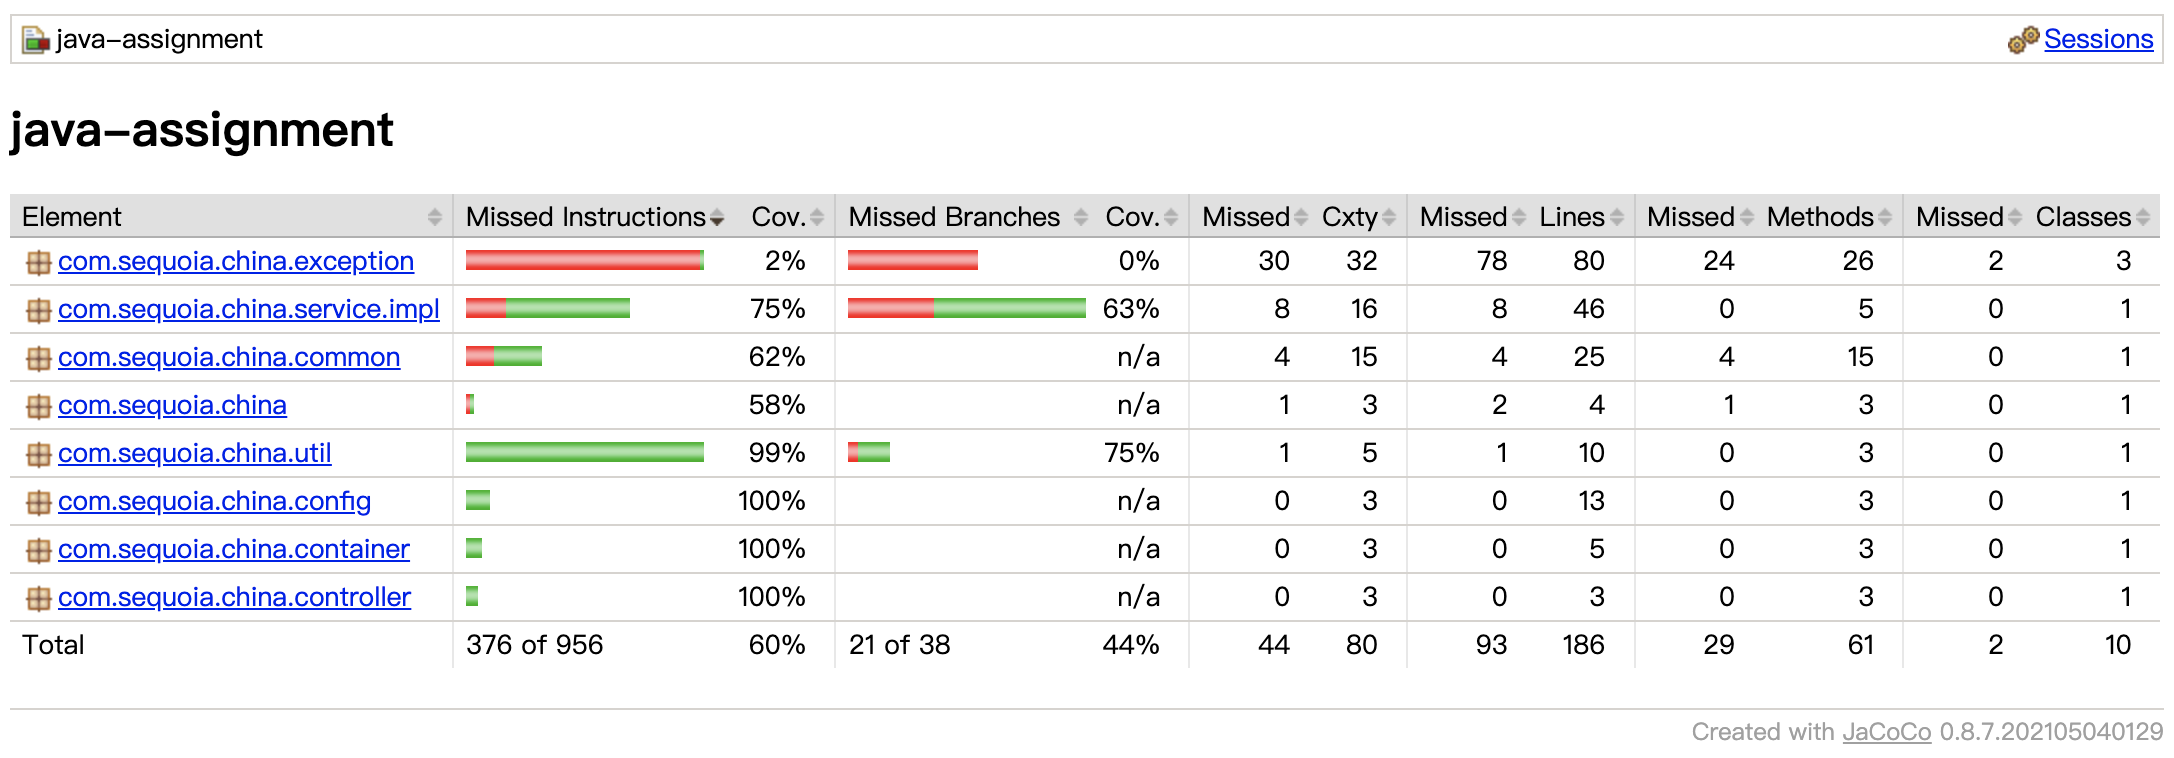
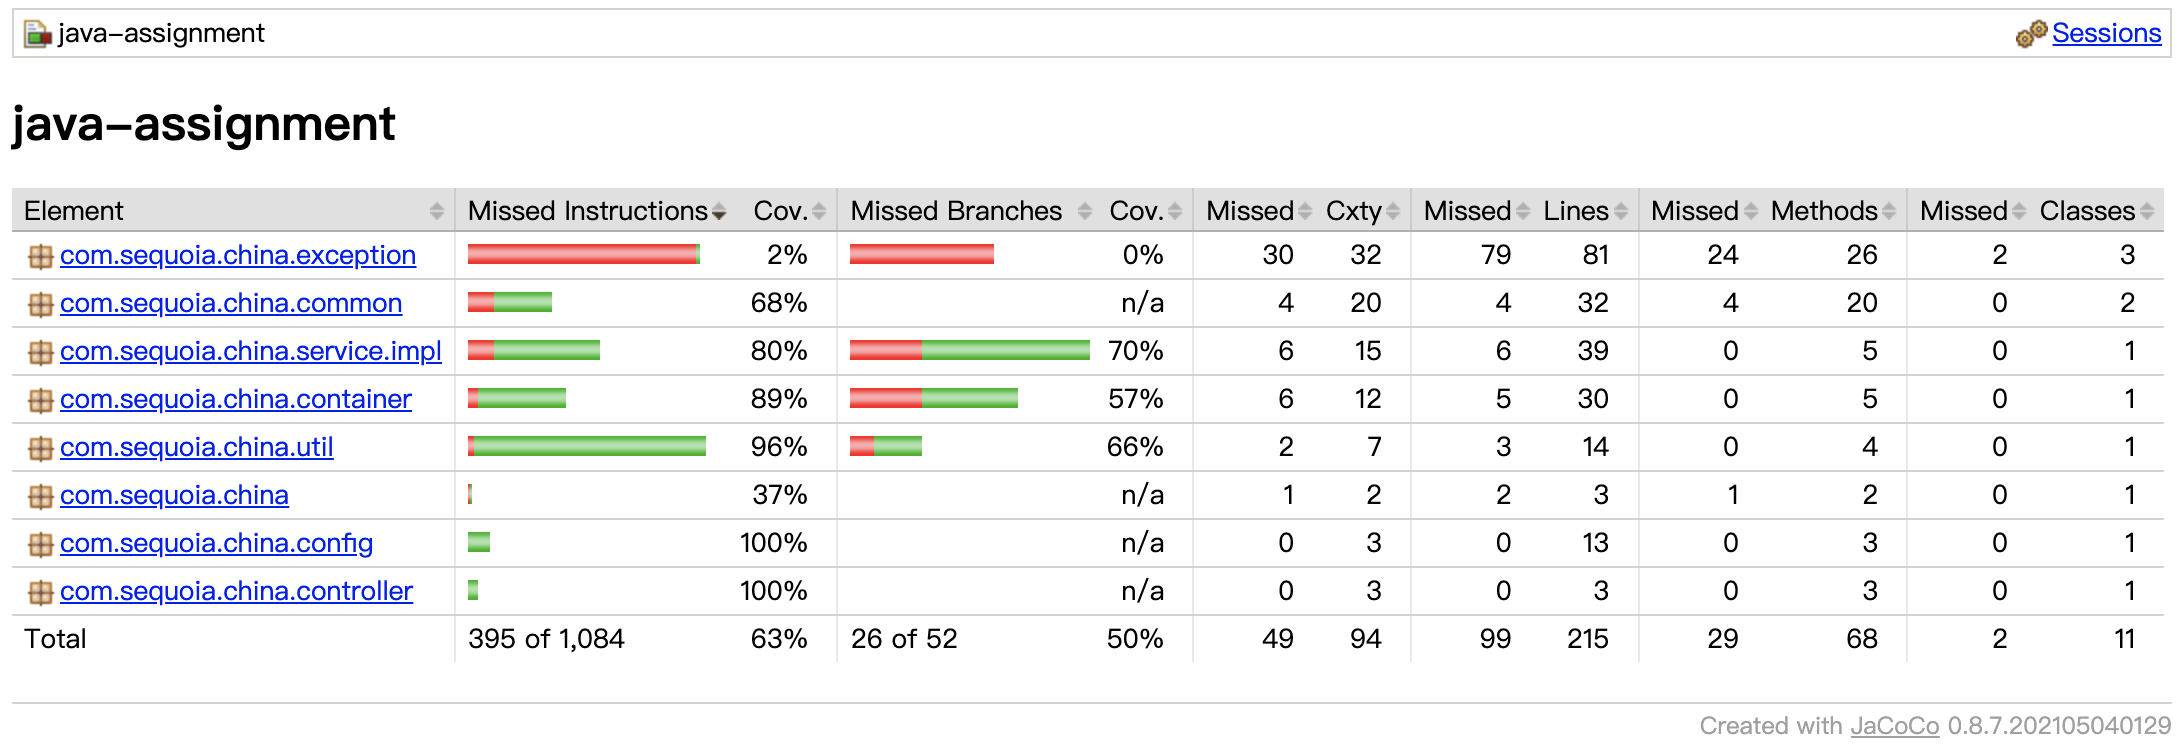
增加LRU，解决内存溢出问题

diff --git a/java/java-assignment/src/main/java/com/sequoia/china/container/DomainNameContainer.java b/java/java-assignment/src/main/java/com/sequoia/china/container/DomainNameContainer.java
@@ -1,5 +1,13 @@
 package com.sequoia.china.container;
 
+import cn.hutool.core.util.StrUtil;
+import com.sequoia.china.common.SequoiaConfig;
+import com.sequoia.china.exception.ErrorEnum;
+import com.sequoia.china.exception.SequoiaRunTimeException;
+import org.springframework.beans.factory.annotation.Autowired;
+import org.springframework.stereotype.Component;
+
+import java.util.LinkedList;
 import java.util.concurrent.ConcurrentHashMap;
 
 /**
@@ -7,7 +15,11 @@ import java.util.concurrent.ConcurrentHashMap;
  * @Author helichao
  * @Date 2021/6/24 7:38 下午
  */
+@Component
 public class DomainNameContainer {
+
+    @Autowired
+    SequoiaConfig sequoiaConfig;
 
     /**
      * 存储key=长域名，value=短域名
@@ -19,12 +31,79 @@ public class DomainNameContainer {
      */
     public ConcurrentHashMap<String,String> shortToLongMap=new ConcurrentHashMap();
 
-    private DomainNameContainer(){}
+    /**
+     * 用于lru算法，String格式为：longDomainName+"|"+shortDomainName
+     */
+    public LinkedList<String> linkedList=new LinkedList<>();
 
-    private final static DomainNameContainer INSTANCE=new DomainNameContainer();
+    /**
+     * 保存长短域名映射关系
+     *
+     * @param longDomainName 长域名
+     * @param shortDomainName 短域名
+     */
+    public synchronized void put(String longDomainName,String shortDomainName){
+        if (StrUtil.isEmpty(longDomainName)||StrUtil.isEmpty(shortDomainName)){
+            return;
+        }
+        //1.判断是否超过容器上限，如果大于或等于maxCount，则移除linkedlist first元素
+        if (linkedList.size()>= sequoiaConfig.getContainerMaxCount()) {
+            linkedList.removeFirst();
+        }
+        //2.将值放入map，建立映射关系
+        longToShortMap.put(longDomainName,shortDomainName);
+        shortToLongMap.put(shortDomainName,longDomainName);
+        //3.保存至linkedlist last位置，
+        linkedList.addLast(longDomainName+"|"+shortDomainName);
+    }
 
-    public static DomainNameContainer getInstance(){
-        return INSTANCE;
+    /**
+     * 根据短域名获取长域名
+     * @param shortDomainName 短域名
+     * @return 长域名
+     */
+    public synchronized String getLongDomainName(String shortDomainName){
+        if (StrUtil.isEmpty(shortDomainName)){
+            return null;
+        }
+        //1.根据short获取long
+        String longDomainName = shortToLongMap.get(shortDomainName);
+        if (StrUtil.isEmpty(longDomainName)) {
+            throw new SequoiaRunTimeException(ErrorEnum.SCE_0004);
+        }
+        //2.更新在linkedlist中的位置
+        refreshLocation(longDomainName,shortDomainName);
+        return longDomainName;
+    }
+
+    /**
+     * 根据长域名获取短域名
+     * @param longDomainName 长域名
+     * @return 短域名
+     */
+    public synchronized String getShortDomainName(String longDomainName){
+        if (StrUtil.isEmpty(longDomainName)){
+            return null;
+        }
+        //1.根据long获取short
+        String shortDomainName = longToShortMap.get(longDomainName);
+        if (StrUtil.isEmpty(shortDomainName)) {
+            return null;
+        }
+        //2.更新在linkedlist中的位置
+        refreshLocation(longDomainName,shortDomainName);
+        return shortDomainName;
+    }
+
+    /**
+     * 刷新key的位置，将最近访问的key移动至在last位置
+     * @param longDomainName 长域名
+     * @param shortDomainName 短域名
+     */
+    private void refreshLocation(String longDomainName,String shortDomainName){
+        String linkedlistNode = longDomainName + "|" + shortDomainName;
+        linkedList.remove(linkedlistNode);
+        linkedList.addLast(linkedlistNode);
     }
 
 

diff --git a/java/java-assignment/src/test/java/com/sequoia/china/JavaAssignmentApplicationTests.java b/java/java-assignment/src/test/java/com/sequoia/china/JavaAssignmentApplicationTests.java
@@ -3,6 +3,7 @@ package com.sequoia.china;
 import cn.hutool.core.util.StrUtil;
 import cn.hutool.json.JSONUtil;
 import com.sequoia.china.common.ResponseData;
+import com.sequoia.china.container.DomainNameContainer;
 import com.sequoia.china.controller.DomainNameConvertController;
 import com.sequoia.china.util.IdUtil;
 import org.junit.jupiter.api.Test;
@@ -18,6 +19,7 @@ import org.springframework.test.web.servlet.request.MockMvcRequestBuilders;
 import org.springframework.web.client.RestTemplate;
 
 import java.nio.charset.Charset;
+import java.util.LinkedList;
 
 @RunWith(SpringRunner.class)
 @SpringBootTest
@@ -28,6 +30,13 @@ class JavaAssignmentApplicationTests {
     @Autowired
     private MockMvc mockMvc;
 
+    @Autowired
+    DomainNameContainer container;
+
+    /**
+     * 测试两个接口是否正常
+     * @throws Exception
+     */
     @Test
     void testDomainNameConvert() throws Exception {
         //长域名转短域名
@@ -64,6 +73,45 @@ class JavaAssignmentApplicationTests {
         String data1 = responseData2.getData();
         System.out.println("长域名："+data1);
         System.out.println("与原长域名比较结果："+(longDomainName.equals(data1)));
+    }
+
+
+    /**
+     * 测试LRU是否生效
+     * @throws Exception
+     */
+    @Test
+    void testLRU() throws Exception {
+        //先初始化10条数据
+        for (int i = 0; i < 10; i++) {
+            String longDomainName="https://baike.baidu.com/item/红杉资本/9915610?fr=aladdin"+i;
+            MvcResult mvcResult=mockMvc.perform(MockMvcRequestBuilders.post("/domainNameconvert/longToShort")
+                    .param("longDomainName",longDomainName))
+                    .andReturn();
+        }
+        //再访问第二条数据，看第二条数据的位置
+        String longDomainName="https://baike.baidu.com/item/红杉资本/9915610?fr=aladdin"+2;
+        MvcResult mvcResult=mockMvc.perform(MockMvcRequestBuilders.post("/domainNameconvert/longToShort")
+                .param("longDomainName",longDomainName))
+                .andReturn();
+        String shortDomainName = mvcResult.getResponse().getContentAsString();
+        ResponseData<String> responseData = JSONUtil.toBean(shortDomainName, ResponseData.class);
+        String data = responseData.getData();
+        System.out.println("短域名："+data);
+
+        //上面总共10条数据，将配置文件中container-max-count改为10，测试是否会删除头部节点
+        String longDomainName2="https://baike.baidu.com/item/红杉资本/9915610?fr=aladdin"+111;
+        MvcResult mvcResult2=mockMvc.perform(MockMvcRequestBuilders.post("/domainNameconvert/longToShort")
+                .param("longDomainName",longDomainName2))
+                .andReturn();
+
+        //在访问第二条数据，使用shortToLong访问，第二条数据应该在最后
+        MvcResult mvcResult3=mockMvc.perform(MockMvcRequestBuilders.post("/domainNameconvert/shortToLong")
+                .param("shortDomainName",data))
+                .andReturn();
+        for (String str:container.linkedList) {
+            System.out.println(str);
+        }
     }
 
 }

diff --git a/java/java-assignment/src/main/java/com/sequoia/china/service/impl/DomainNameConvertServiceImpl.java b/java/java-assignment/src/main/java/com/sequoia/china/service/impl/DomainNameConvertServiceImpl.java
@@ -8,6 +8,7 @@ import com.sequoia.china.service.IDomainNameConvertService;
 import com.sequoia.china.util.IdUtil;
 import org.slf4j.Logger;
 import org.slf4j.LoggerFactory;
+import org.springframework.beans.factory.annotation.Autowired;
 import org.springframework.stereotype.Service;
 
 /**
@@ -19,6 +20,12 @@ import org.springframework.stereotype.Service;
 public class DomainNameConvertServiceImpl implements IDomainNameConvertService {
 
     private final static Logger log= LoggerFactory.getLogger(DomainNameConvertServiceImpl.class);
+
+    @Autowired
+    DomainNameContainer container;
+
+    @Autowired
+    IdUtil idUtil;
 
     /**
      * 长域名转短域名
@@ -44,21 +51,14 @@ public class DomainNameConvertServiceImpl implements IDomainNameConvertService {
         if (StrUtil.isEmpty(suffixUrl)){
             throw new SequoiaRunTimeException(ErrorEnum.SCE_0003,longDomainName);
         }
-        //3.获取容器
-        DomainNameContainer instance = DomainNameContainer.getInstance();
-        //4.判断域名容器中是否有该长域名，有则直接返回，无则进行后续步骤；
-        String shortDomainName = instance.longToShortMap.get(suffixUrl);
+        //3.从容器中获取短域名
+        String shortDomainName = container.getShortDomainName(suffixUrl);
         if (StrUtil.isNotEmpty(shortDomainName)){
             return prefixUrl+shortDomainName;
         }
         //5.生成id；
-        String id= IdUtil.getId();
-        synchronized (instance){
-            //6.存储：key=suffixUrl，value=id
-            instance.longToShortMap.put(suffixUrl,id);
-            //7.存储：key=id，value=suffixUrl
-            instance.shortToLongMap.put(id,suffixUrl);
-        }
+        String id= idUtil.getId();
+        container.put(suffixUrl,id);
         return prefixUrl+id;
     }
 
@@ -83,13 +83,8 @@ public class DomainNameConvertServiceImpl implements IDomainNameConvertService {
         if (StrUtil.isEmpty(suffixUrl)){
             throw new SequoiaRunTimeException(ErrorEnum.SCE_0003,shortDomainName);
         }
-        //3.获取容器
-        DomainNameContainer instance = DomainNameContainer.getInstance();
-        //4.判断域名容器中是否有该长域名，有则直接返回，无则进行后续步骤；
-        String longDomainName = instance.shortToLongMap.get(suffixUrl);
-        if (StrUtil.isEmpty(longDomainName)){
-            throw new SequoiaRunTimeException(ErrorEnum.SCE_0004,shortDomainName);
-        }
+        //3.从容器中获取长域名
+        String longDomainName = container.getLongDomainName(suffixUrl);
         return prefixUrl+longDomainName;
     }
 

diff --git a/java/java-assignment/src/main/java/com/sequoia/china/util/IdUtil.java b/java/java-assignment/src/main/java/com/sequoia/china/util/IdUtil.java
@@ -21,20 +21,20 @@ public class IdUtil {
             'a','b','c','d','e','f','g','h','i','j','k','l','m','n','o','p','q','r','s','t','u','v','w','x','y','z',
             'A','B','C','D','E','F','G','H','I','J','K','L','M','N','O','P','Q','R','S','T','U','V','W','X','Y','Z'};
 
-    private static SecureRandom random = new SecureRandom();
+    private SecureRandom random = new SecureRandom();
 
-    private static int idRecursiveMaxCount;
+    @Autowired
+    SequoiaConfig sequoiaConfig;
 
-    public IdUtil(SequoiaConfig sequoiaConfig) {
-        idRecursiveMaxCount=sequoiaConfig.getIdRecursiveMaxCount();
-    }
+    @Autowired
+    DomainNameContainer container;
 
     /**
      * 生成id
      *
      * @return
      */
-    public static String getId(){
+    public String getId(){
         //第一次获取id，递归次数为0
         return getId(0);
     }
@@ -45,8 +45,8 @@ public class IdUtil {
      * @param recursiveCount 当前递归次数
      * @return
      */
-    private static String getId(int recursiveCount){
-        if (recursiveCount >= idRecursiveMaxCount){
+    private String getId(int recursiveCount){
+        if (recursiveCount >= sequoiaConfig.getIdRecursiveMaxCount()){
             throw new SequoiaRunTimeException(ErrorEnum.SCE_0005);
         }
         StringBuffer idSb=new StringBuffer(8);
@@ -55,7 +55,7 @@ public class IdUtil {
         }
         String id = idSb.toString();
         //id重复，递归重新获取，经测试1000万次访问不存在id重复问题
-        if (DomainNameContainer.getInstance().shortToLongMap.containsKey(id)){
+        if (container.shortToLongMap.containsKey(id)){
             recursiveCount++;
             id=getId(recursiveCount);
         }

diff --git a/java/java-assignment/src/main/java/com/sequoia/china/common/SequoiaConfig.java b/java/java-assignment/src/main/java/com/sequoia/china/common/SequoiaConfig.java
@@ -17,11 +17,24 @@ public class SequoiaConfig {
      */
     private int idRecursiveMaxCount;
 
+    /**
+     * 长短域名映射关系容器容量上限
+     */
+    private int containerMaxCount;
+
     public int getIdRecursiveMaxCount() {
         return idRecursiveMaxCount;
     }
 
     public void setIdRecursiveMaxCount(int idRecursiveMaxCount) {
         this.idRecursiveMaxCount = idRecursiveMaxCount;
+    }
+
+    public int getContainerMaxCount() {
+        return containerMaxCount;
+    }
+
+    public void setContainerMaxCount(int containerMaxCount) {
+        this.containerMaxCount = containerMaxCount;
     }
 }

diff --git a/java/java-assignment/设计思路及假设.md b/java/java-assignment/设计思路及假设.md
@@ -1,5 +1,5 @@
 ## 一、假设
-1.长短域名使用相同的前缀，即http://ip:port/相同，故需截取url后缀进行转换;
+1.长短域名使用相同的前缀，即http://ip:port/相同，故需截取url后缀进行转换（如果后续更改了ip和port，可直接拼接新的ip和port）;
 
 ## 二、设计思路
 ### 1. 域名映射容器类
@@ -33,3 +33,8 @@
 2.增加统一日志打印等；
 
 3.增加controller层接口参数校验；
+
+## ======== 2021.6.25-6.26优化 ========
+1.增加配置限制递归次数，解决极端情况下栈溢出问题；
+
+2.增加配置限制域名容器大小及LRU，解决内存溢出问题，后续可集成配置中心，实时调整容器上限。
